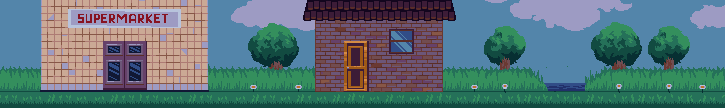
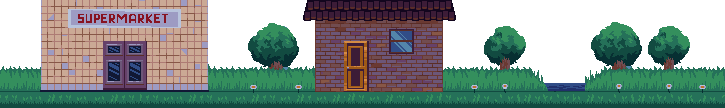
add moveable clouds

diff --git a/core/src/org/byters/ldjam39/model/locationInfo/LocationInfoBase.java b/core/src/org/byters/ldjam39/model/locationInfo/LocationInfoBase.java
@@ -1,5 +1,6 @@
 package org.byters.ldjam39.model.locationInfo;
 
+import com.badlogic.gdx.Gdx;
 import org.byters.engine.model.util.HelperMath;
 import org.byters.ldjam39.controller.ControllerWorldState;
 import org.byters.ldjam39.model.InteractedObject;
@@ -9,12 +10,16 @@ import java.util.ArrayList;
 
 public abstract class LocationInfoBase {
 
-    static final float DISTANCE_INTERACT = 12;
+    private static final float DISTANCE_INTERACT = 12;
+    private static final int SKY_WIDTH = 725;
+    private static final float CLOUD_SPEED = 0.5f;
     ArrayList<InteractedObject> listInteractedObject;
+    private float skyPosX;
     private InteractedObject interactedObject;
     private InteractedObject nearestObject;
 
     public void load() {
+        skyPosX = 0;
         interactedObject = null;
         nearestObject = null;
         listInteractedObject = new ArrayList<InteractedObject>();
@@ -78,5 +83,22 @@ public abstract class LocationInfoBase {
 
     public void resetInteractedItem() {
         interactedObject = null;
+    }
+
+    public void update() {
+        skyPosX -= Gdx.graphics.getDeltaTime() * CLOUD_SPEED;
+        if (skyPosX < -SKY_WIDTH) skyPosX = 0;
+    }
+
+    public float getSkyPosXFirst() {
+        return skyPosX;
+    }
+
+    public float getSkyPosXSecond() {
+        return skyPosX + SKY_WIDTH;
+    }
+
+    public float getSkyPosY() {
+        return 25;
     }
 }

diff --git a/core/src/org/byters/ldjam39/view/drawer/DrawerLocation.java b/core/src/org/byters/ldjam39/view/drawer/DrawerLocation.java
@@ -17,6 +17,7 @@ public class DrawerLocation {
     private LocationInfoBase wLocationInfo;
 
     private Texture tBackground;
+    private Texture tBackgroundSky;
     private BitmapFont font;
 
     private GlyphLayout layout;
@@ -32,6 +33,7 @@ public class DrawerLocation {
         font = new BitmapFont(Gdx.files.internal(TextureEnum.TEXTURE_FONT.toString()));
         layout = new GlyphLayout();
         tBackground = new Texture(wLocationInfo.getBackground());
+        tBackgroundSky = new Texture(TextureEnum.TEXTURE_BACKGROUND_SKY.toString());
 
         listInteractedObject = new ArrayList<Texture>();
         for (int i = 0; i < wLocationInfo.getInteractedObjectsNum(); ++i) {
@@ -43,6 +45,7 @@ public class DrawerLocation {
     public void dispose() {
         wLocationInfo = null;
         tBackground.dispose();
+        tBackgroundSky.dispose();
         font.dispose();
         for (int i = 0; i < listInteractedObject.size(); ++i)
             if (listInteractedObject.get(i) != null)
@@ -51,6 +54,8 @@ public class DrawerLocation {
 
     public void draw(SpriteBatch batch) {
         if (wLocationInfo == null) return;
+        batch.draw(tBackgroundSky, wLocationInfo.getSkyPosXFirst(), wLocationInfo.getSkyPosY());
+        batch.draw(tBackgroundSky, wLocationInfo.getSkyPosXSecond(),wLocationInfo.getSkyPosY());
         batch.draw(tBackground, 0, 1);
 
         drawItems(batch);

diff --git a/core/src/org/byters/ldjam39/view/ScreenGameBase.java b/core/src/org/byters/ldjam39/view/ScreenGameBase.java
@@ -108,6 +108,7 @@ public abstract class ScreenGameBase implements IScreen {
         ControllerCamera.getInstance().setPosition(x,
                 ControllerCamera.getInstance().getCameraHeight() / 2, 0);
 
+        getLocationInfo().update();
         getLocationInfo().updateInteractMessage(player.getOriginX());
         interactionLocation.checkInteraction();
 

diff --git a/core/src/org/byters/ldjam39/view/TextureEnum.java b/core/src/org/byters/ldjam39/view/TextureEnum.java
@@ -29,7 +29,8 @@ public enum TextureEnum {
     TEXTURE_TREE_HOLE("graphics/tree_hole.png"),
     FILE_MUSIC("music.mp3"),
     TEXTURE_WIN("graphics/bg_win.png"),
-    TEXTURE_MENU("graphics/menu.png");
+    TEXTURE_MENU("graphics/menu.png"),
+    TEXTURE_BACKGROUND_SKY("graphics/bg_sky.png");
 
     private final String path;
 
